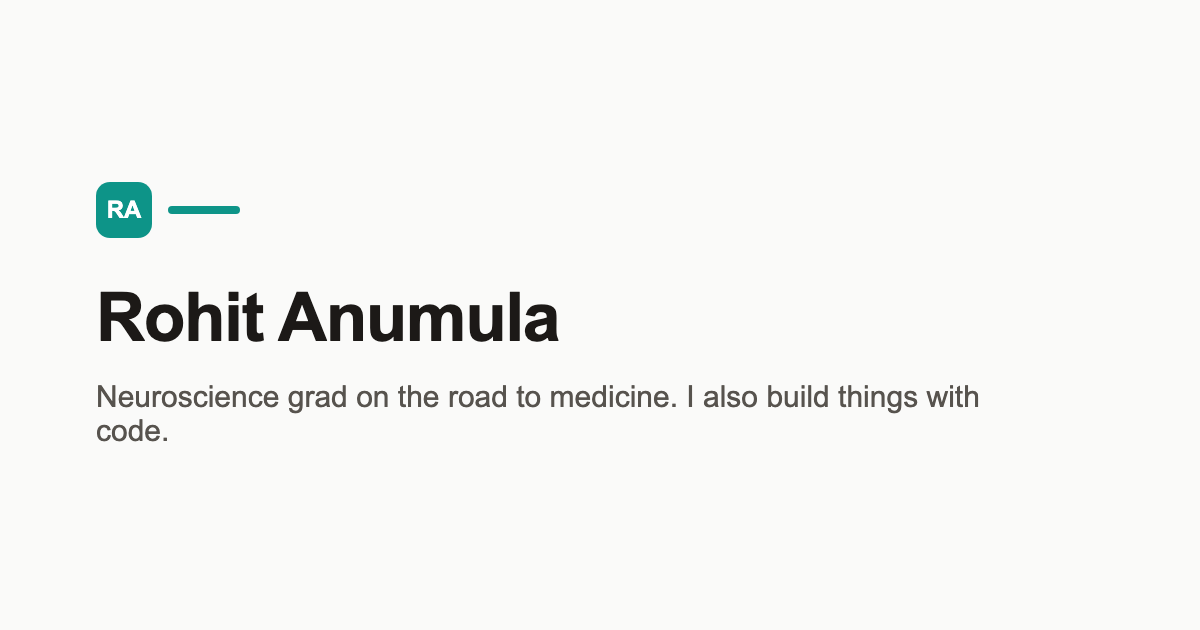
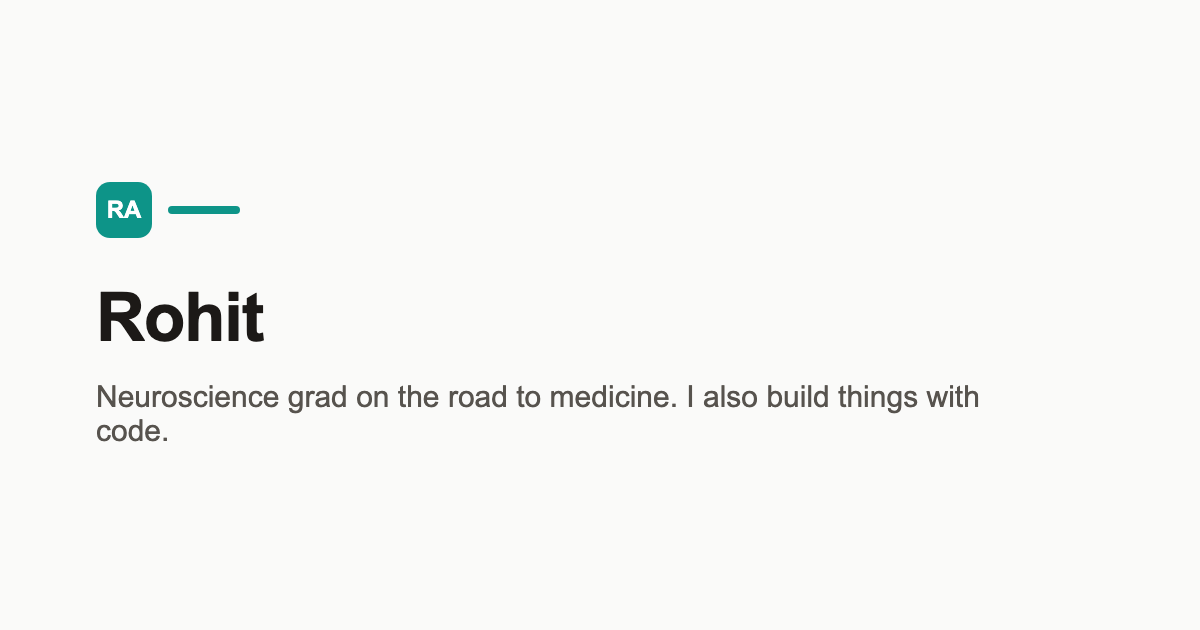
fix: use first name only and remove personal contact info
Site, README, OG image, and docs now use first name only. Email
address and contact links removed everywhere; About page points to
GitHub instead.

Changed region(s): [[0.2158, 0.4524, 0.4625, 0.5429]]

diff --git a/src/data/site.ts b/src/data/site.ts
@@ -1,11 +1,9 @@
 export const site = {
-  name: "Rohit Anumula",
+  name: "Rohit",
   handle: "doctor-ra",
   tagline: "Neuroscience grad on the road to medicine. I also build things with code.",
   description:
-    "Personal site of Rohit Anumula — neuroscience graduate working toward medical school, with a side interest in programming.",
+    "Personal site of Rohit — neuroscience graduate working toward medical school, with a side interest in programming.",
   url: "https://doctor-ra.github.io/doctor-ra", // update if a custom domain is added
-  email: "investicord@gmail.com", // TODO(Rohit): confirm this should be public
   github: "https://github.com/doctor-ra",
-  // linkedin: undefined, // TODO(Rohit): add once available
 } as const;

diff --git a/PLAN.md b/PLAN.md
@@ -1,4 +1,4 @@
-# Personal Website Implementation Plan — Rohit Anumula (doctor-ra)
+# Personal Website Implementation Plan — Rohit (doctor-ra)
 
 > **Instructions for the implementing model (e.g., Claude Sonnet):**
 > This document is the complete specification for building Rohit's personal website.
@@ -11,7 +11,7 @@
 
 ## 1. Context & Goals
 
-**Who:** Rohit Anumula — BS in Neuroscience, currently working toward medical school
+**Who:** Rohit — BS in Neuroscience, currently working toward medical school
 acceptance, with a strong side interest in programming (Python, data analysis,
 web dev bootcamp experience).
 
@@ -46,7 +46,7 @@ README repository*. Two hard constraints follow:
    Every internal link and asset URL must respect the base path. Astro handles
    this via `base: '/doctor-ra'` in config — always build hrefs with
    `import.meta.env.BASE_URL` or Astro's built-in path handling, never hardcode `/about`.
-   - If Rohit later buys a custom domain (e.g., `rohitanumula.com`), only
+   - If Rohit later buys a custom domain (e.g., `example.com`), only
      `site`/`base` in `astro.config.mjs` and a `CNAME` file change. Structure the
      code so this is a two-line change (single source of truth for base path).
 
@@ -189,7 +189,7 @@ Rules:
 `favicon.svg`: rounded square, `--accent` teal background (#0d9488), white bold
 "RA" (Inter 700) centered. Also use this mark at small size next to the name in
 the header. Generate `og-default.png` (1200×630): off-white background, "Rohit
-Anumula" large, tagline below, teal accent bar — can be produced with a small
+" large, tagline below, teal accent bar — can be produced with a small
 Node script using `sharp`/`satori` at build time, or committed as a static asset
 generated once (simpler — do that).
 
@@ -208,7 +208,7 @@ Footer: name + © year, links (GitHub, Email, RSS), and "Built with Astro" small
 
 1. **Hero** (no image required; if avatar used, pull `public/avatar.jpg` —
    `TODO(Rohit)`, ship without it):
-   - h1: `Rohit Anumula`
+   - h1: `Rohit`
    - Tagline (styled subtitle): `Neuroscience grad on the road to medicine. I also build things with code.`
    - Short paragraph (2–3 sentences, from §7.1 intro copy).
    - Two buttons: primary `About me →` (accent bg), secondary `View projects`
@@ -261,7 +261,7 @@ button back home. Must respect base path.
 
 ### 6.6 SEO / meta (in `BaseLayout`)
 
-Every page gets: `<title>` (`{pageTitle} · Rohit Anumula`, home = `Rohit Anumula — Neuroscience & Code`),
+Every page gets: `<title>` (`{pageTitle} · Rohit`, home = `Rohit — Neuroscience & Code`),
 meta description (per-page prop), canonical URL, OG + Twitter card tags
 (default `og-default.png`), `<link rel="sitemap">` (add `@astrojs/sitemap`),
 theme-color for both schemes, and JSON-LD `Person` on the home page
@@ -352,11 +352,11 @@ interesting, there's an [RSS feed](/rss.xml) — or just check back sometime.
 
 ```ts
 export const site = {
-  name: "Rohit Anumula",
+  name: "Rohit",
   handle: "doctor-ra",
   tagline: "Neuroscience grad on the road to medicine. I also build things with code.",
   url: "https://doctor-ra.github.io/doctor-ra", // update when custom domain exists
-  email: "investicord@gmail.com",               // TODO(Rohit): confirm public email
+  email: "<email withheld>",               // TODO(Rohit): confirm public email
   github: "https://github.com/doctor-ra",
   // linkedin: TODO(Rohit) — omit link until provided
 };
@@ -469,7 +469,7 @@ page's title/description/canonical.
 
 ## 10. Open items for Rohit (site ships without them)
 
-- [ ] Confirm public contact email (currently `investicord@gmail.com`).
+- [ ] Confirm public contact email (currently `<email withheld>`).
 - [ ] Headshot/avatar (`public/avatar.jpg`) — optional.
 - [ ] Resume PDF (`public/resume.pdf`) — nav/footer link only added once present.
 - [ ] Timeline years for degree start/graduation.

diff --git a/README.md b/README.md
@@ -1,14 +1,6 @@
 ### Hi, I'm Rohit 👋
 
-🧠 BS in Neuroscience → 🩺 working toward medical school
-🛠 Somewhere along the way, I picked up a real love for programming
+🧠 Neuroscience grad → 🩺 working toward medical school
+🛠 I also build things with code
 
-- 🌐 **[My website](https://doctor-ra.github.io/doctor-ra/)** — my story, my projects, and occasional writing
-- 📫 
-
-**A few things I've built:**
-- 🔬 [NURP](https://github.com/doctor-ra/NURP) — research data analysis in Jupyter notebooks
-- 🧮 [calculator](https://github.com/doctor-ra/calculator) — a Python tool for common equations
-- 🎌 [aniverse](https://github.com/doctor-ra/aniverse) — a web dev bootcamp project
-
-Currently sharpening both stethoscope-adjacent and software skills. 🔪🧠🩺
+🌐 [My website](https://doctor-ra.github.io/doctor-ra/)

diff --git a/SITE.md b/SITE.md
@@ -69,7 +69,7 @@ If Rohit buys a custom domain later, only two things change:
 
 1. In `astro.config.mjs`, update `site` to the new domain and change `base` to `'/'` (project
    pages need a base path; a custom domain at the root doesn't).
-2. Add a `public/CNAME` file containing the domain name (e.g. `rohitanumula.com`).
+2. Add a `public/CNAME` file containing the domain name (e.g. `example.com`).
 
 Everything else (internal links, the remark base-path plugin, RSS/sitemap URLs) is derived from
 that config, so no other files need to change.
